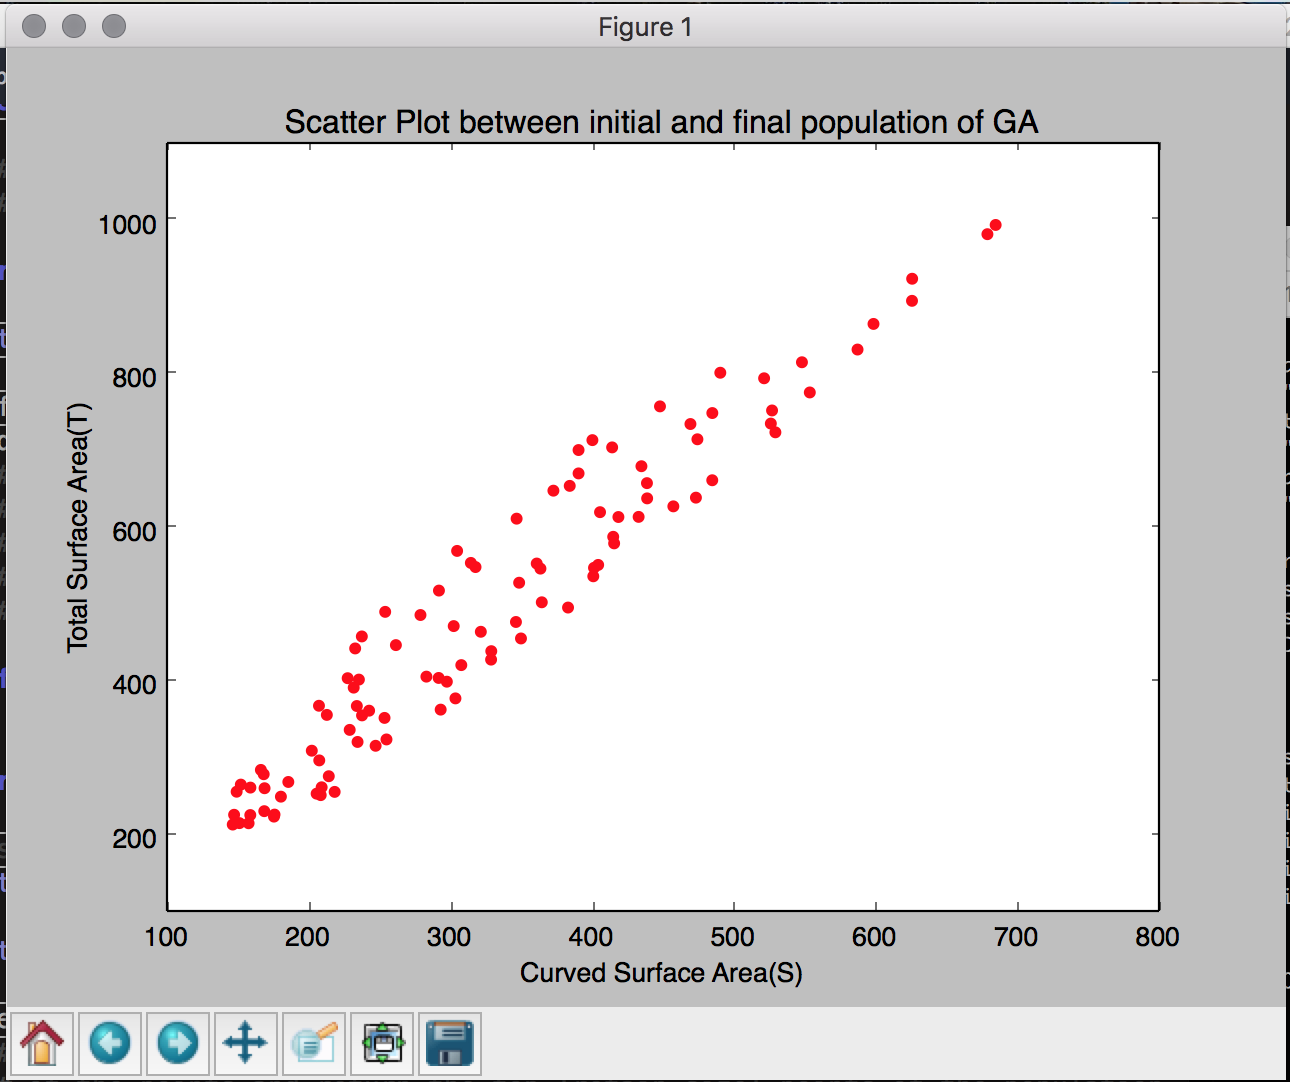
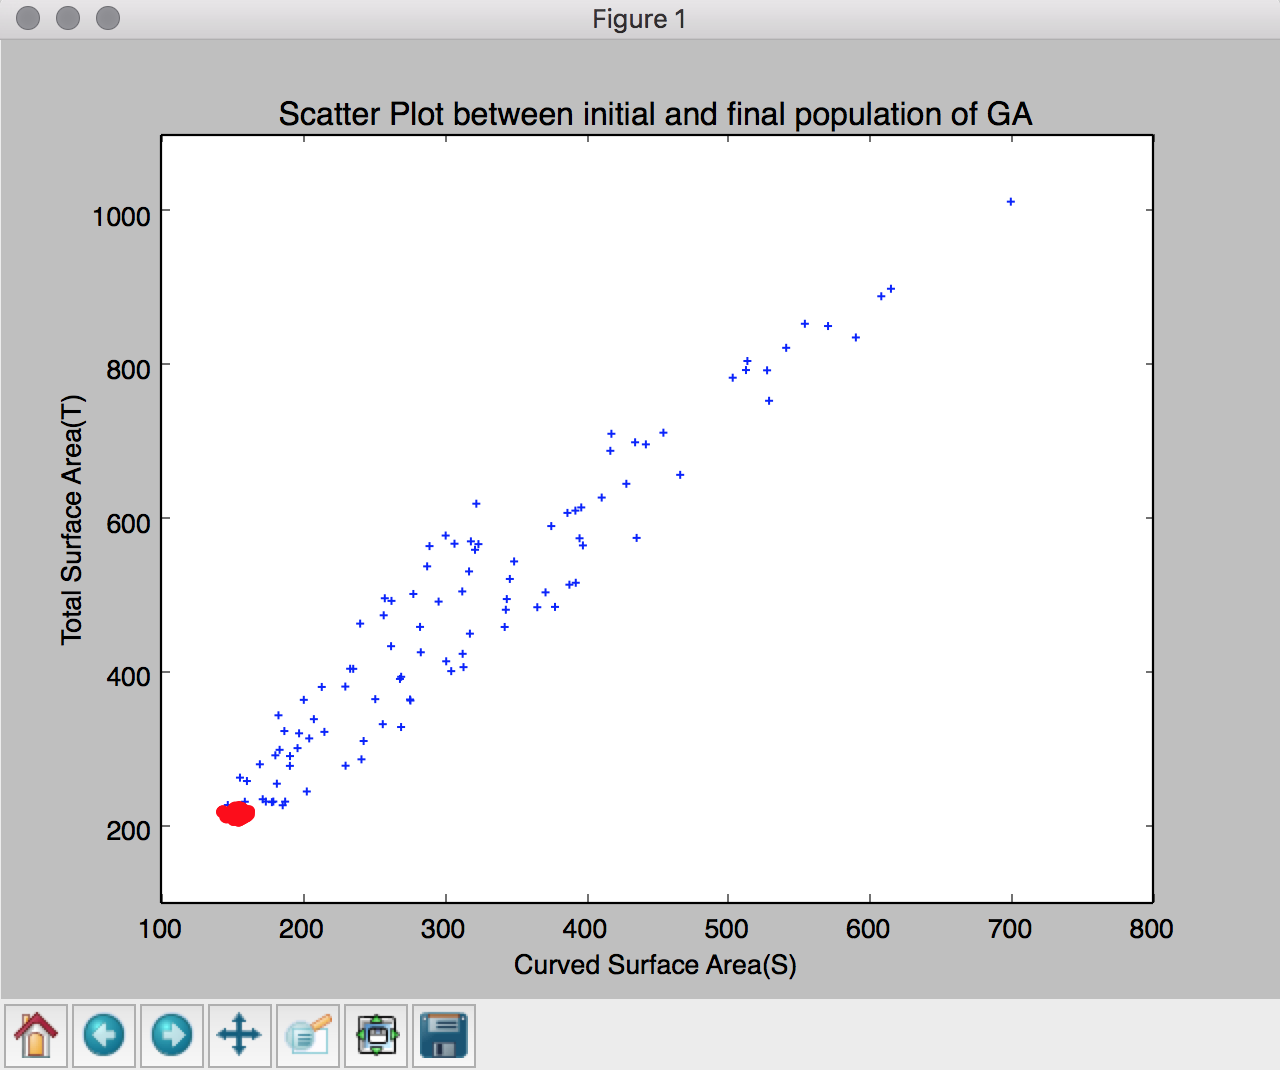
Fixing magoff ga exercise

diff --git a/code/4/ga/magoff2.py b/code/4/ga/magoff2.py
@@ -189,32 +189,21 @@ def bdom(problem, one, two):
     objs_one = problem.evaluate(one)
     objs_two = problem.evaluate(two)
 
-    everyOne = True
-    atLeastOne = False
+    if(one == two):
+        return False;
 
-    """
-    val1 = [4,6]
-    val2 = [5,6]
-    for idx,val in enumerate(val1):
-        if(val > val2[idx]) :
-            everyOne = False
-        elif(val == val2[idx]) :
-            atLeastOne = True
-    """
-
-
-    for idx,val in enumerate(objs_one):
-        if(val > objs_two[idx]) :
-            everyOne = False
-        elif(val == objs_two[idx]) :
-            atLeastOne = True
-
-    if(everyOne and atLeastOne) :
-        dominates = True
-    else :
-        dominates = False
+    dominates = False
     # TODO 9: Return True/False based on the definition
     # of bdom above.
+    first = True
+    second = False
+    for i,_ in enumerate(problem.objectives):
+        if ((first is True) & gt(one.objectives[i], two.objectives[i])):
+            first = False
+        elif (not second & (one.objectives[i] is not two.objectives[i])):
+            second = True
+
+    dominates = first & second
 
     return dominates
 
@@ -241,18 +230,9 @@ print('HELLO WORLD\n')
 def elitism(problem, population, retain_size):
     # TODO 11: Sort the population with respect to the fitness
     # of the points and return the top 'retain_size' points of the population
-
-    fitnesses = []
-    for n in population:
-        fitnesses.append((n, fitness(problem, population, n)))
-
-    fitnesses = sorted(fitnesses, key=lambda x: x[1])
-
-    results = []
-    for x in fitnesses:
-        results.append(x[0])
-
-    return results[:retain_size]
+    fit_pop = [fitness(cone,population,pop) for pop in population]
+    population = [pop for _,pop in sorted(zip(fit_pop,population), reverse = True)]
+    return population[:retain_size]
 
 print(elitism(cone, pop, 3))
 
